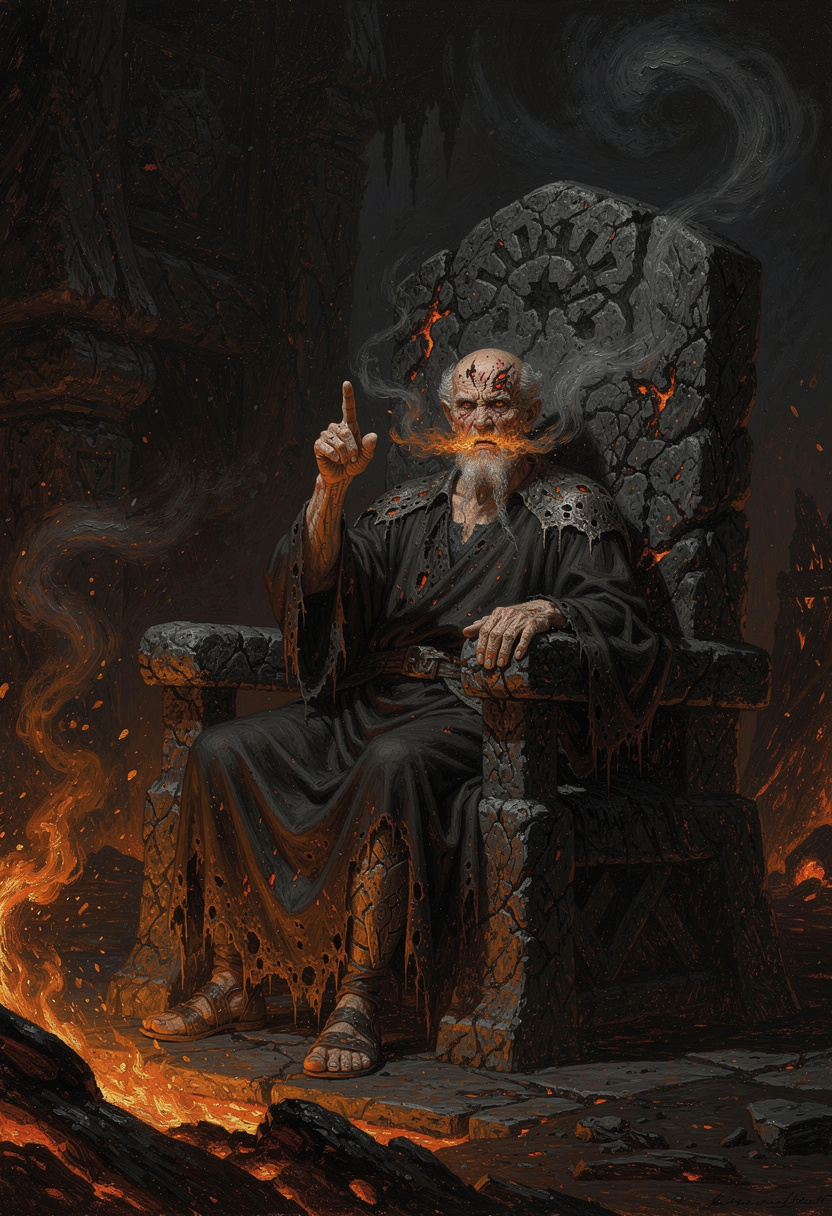
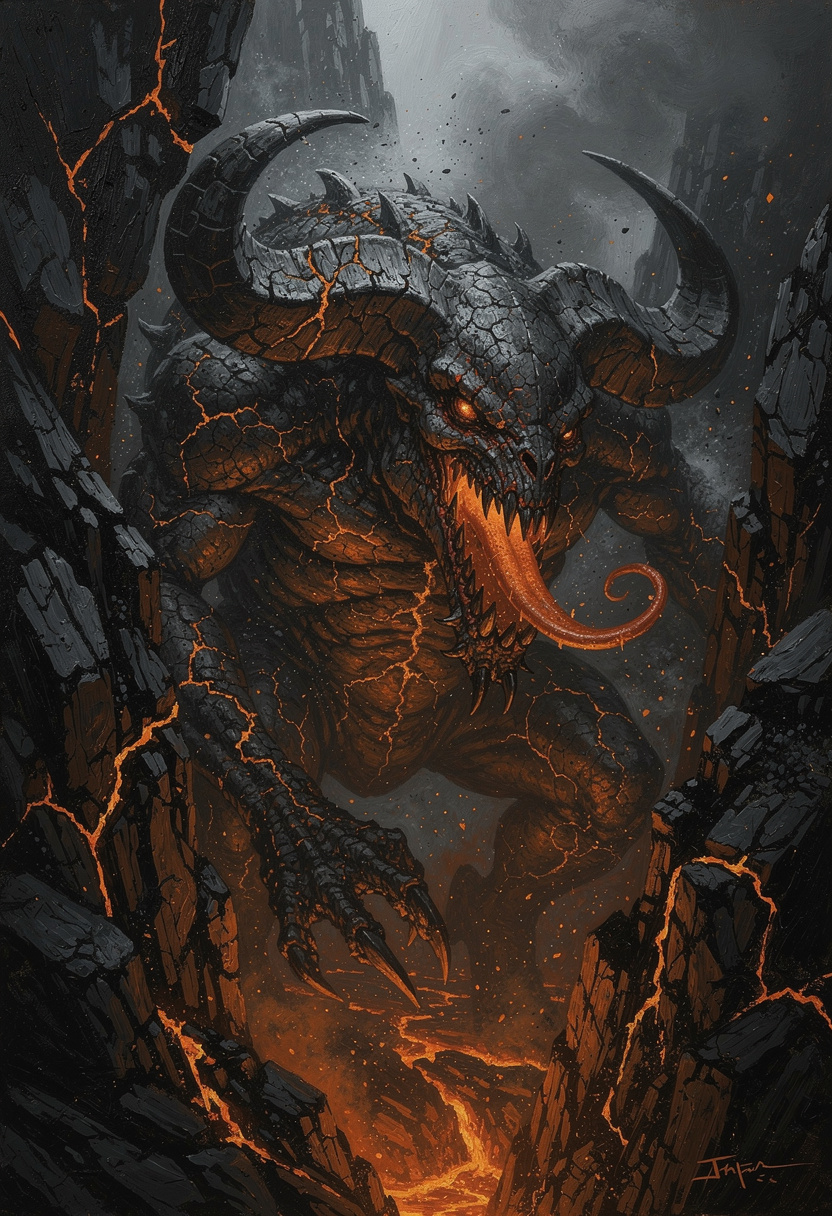
TASK-CARD-ART-VERIFY-1: Every shipped card must show its own art. Cross-check every card id in content/cards/*.json against client/content/art/<id>.webp (+ .import): list missing files, files whose art_check.py score fails, and any card whose image is visibly not its subject (look at the 20 lowest s

diff --git a/docs/ART_AUDIT.md b/docs/ART_AUDIT.md
@@ -1,77 +1,166 @@
-# Art Audit — TASK-ART-AUDIT-1
+# Art Audit — TASK-CARD-ART-VERIFY-1
 Generated: 2026-09-04
 
-## Before (original) scores for the worst 20
+## Full Card Art Audit
 
-| File | 64px colours | aspect | art_check |
-|---|---|---|---|
-| hol_x_aelins_seal.webp | 2184 | 512x512 | FAIL |
-| hol_c_skeletal_reaver.webp | 2379 | 832x1216 | PASS |
-| emb_c_flame_javelin.webp | 2618 | 832x1216 | PASS |
-| hol_r_curse_of_binding.webp | 2767 | 832x1216 | PASS |
-| hol_u_crypt_crawler.webp | 2782 | 832x1216 | PASS |
-| emb_c_ember_hound.webp | 2827 | 832x1216 | PASS |
-| emb_c_cinder_runner.webp | 2843 | 832x1216 | PASS |
-| emb_r_phoenix_ash.webp | 2888 | 832x1216 | PASS |
-| tid_c_abyssal_gaze.webp | 2927 | 832x1216 | PASS |
-| tut_c_student_of_embers.webp | 2945 | 832x1216 | PASS |
-| emb_x_the_last_ember.webp | 2946 | 832x1216 | PASS |
-| hol_c_bone_shard_volley.webp | 2982 | 832x1216 | PASS |
-| emb_r_inferno_burst.webp | 2992 | 832x1216 | PASS |
-| hol_r_wraith_stalker.webp | 3014 | 832x1216 | PASS |
-| vrd_x_heartwood_relic.webp | 3028 | 832x1216 | PASS |
-| tid_c_whirlpool_elemental.webp | 3056 | 832x1216 | PASS |
-| tid_r_sunken_leviathan.webp | 3061 | 832x1216 | PASS |
-| hol_c_ossuary_guard.webp | 3066 | 832x1216 | PASS |
-| tid_c_deep_one.webp | 3072 | 832x1216 | PASS |
-| hol_r_hollow_herald.webp | 3082 | 832x1216 | PASS |
+All 146 card IDs from content/cards/*.json checked against client/content/art/<id>.webp.
+Client/content/cards mirrors content/cards byte-for-byte (all 6 files identical).
 
-## After (regenerated) scores for replaced cards
+| # | Card ID | Card Name | Status | 64px Colours | Dimensions | Notes |
+|---|---------|-----------|--------|-------------|-----------|-------|
+| 1 | dwn_c_dawn_warder | Dawn Warder | PASS | 3704 | 832x1216 |  |
+| 2 | dwn_c_dawnbreaker_charger | Dawnbreaker Charger | PASS | 3777 | 832x1216 |  |
+| 3 | dwn_c_daybreak_guard | Daybreak Guard | PASS | 2559 | 832x1216 |  |
+| 4 | dwn_c_gleam_sentinel | Gleam Sentinel | PASS | 3157 | 832x1216 |  |
+| 5 | dwn_c_golden_retainer | Golden Retainer | PASS | 3680 | 832x1216 |  |
+| 6 | dwn_c_light_bearer | Light Bearer | PASS | 1978 | 832x1216 |  |
+| 7 | dwn_c_light_lancer | Light Lancer | PASS | 3274 | 832x1216 |  |
+| 8 | dwn_c_oath_sworn_guard | Oath-Sworn Guard | PASS | 3186 | 832x1216 |  |
+| 9 | dwn_c_sunblade_recruit | Sunblade Recruit | PASS | 3706 | 832x1216 |  |
+| 10 | dwn_c_sunpearl_healer | Sunpearl Healer | PASS | 2991 | 832x1216 |  |
+| 11 | dwn_c_templar_initiate | Templar Initiate | PASS | 2802 | 832x1216 |  |
+| 12 | dwn_c_warden_of_the_light | Warden of the Light | PASS | 3071 | 832x1216 |  |
+| 13 | dwn_m_last_dawn | Last Dawn | PASS | 3828 | 832x1216 |  |
+| 14 | dwn_r_archangel_of_order | Archangel of Order | PASS | 3882 | 832x1216 |  |
+| 15 | dwn_r_aurora_warden | Aurora Warden | PASS | 3646 | 832x1216 |  |
+| 16 | dwn_r_gilded_seraph | Gilded Seraph | PASS | 3432 | 832x1216 |  |
+| 17 | dwn_r_holy_edict | Holy Edict | PASS | 3594 | 832x1216 |  |
+| 18 | dwn_r_radiant_prophet | Radiant Prophet | PASS | 3806 | 832x1216 |  |
+| 19 | dwn_r_sealing_light | Sealing Light | PASS | 3159 | 832x1216 |  |
+| 20 | dwn_u_blessing_of_dawn | Blessing of Dawn | PASS | 3368 | 832x1216 |  |
+| 21 | dwn_u_fading_spark | Fading Spark | PASS | 2808 | 832x1216 |  |
+| 22 | dwn_u_morning_herald | Morning Herald | PASS | 3834 | 832x1216 |  |
+| 23 | dwn_u_purifying_light | Purifying Light | PASS | 3649 | 832x1216 |  |
+| 24 | dwn_u_reckoning_strike | Reckoning Strike | PASS | 2620 | 832x1216 |  |
+| 25 | dwn_u_steadfast_bulwark | Steadfast Bulwark | PASS | 3749 | 832x1216 |  |
+| 26 | dwn_u_vigil_guardian | Vigil Guardian | PASS | 2901 | 832x1216 |  |
+| 27 | dwn_x_dawn_relic | Dawn Relic | PASS | 3697 | 832x1216 |  |
+| 28 | dwn_x_radiant_shard | Radiant Shard | PASS | 2392 | 832x1216 |  |
+| 29 | emb_c_blaze_scout | Blaze Scout | PASS | 2807 | 832x1216 |  |
+| 30 | emb_c_cinder_runner | Cinder Runner | PASS | 2781 | 832x1216 |  |
+| 31 | emb_c_ember_hound | Ember Hound | PASS | 2263 | 832x1216 |  |
+| 32 | emb_c_ember_impaler | Ember Impaler | PASS | 2673 | 832x1216 |  |
+| 33 | emb_c_firecrown_raider | Firecrown Raider | PASS | 1783 | 832x1216 |  |
+| 34 | emb_c_flame_javelin | Flame Javelin | PASS | 2789 | 832x1216 |  |
+| 35 | emb_c_forgeguard_berserker | Forgeguard Berserker | PASS | 3203 | 832x1216 |  |
+| 36 | emb_c_furnace_reaver | Furnace Reaver | PASS | 2201 | 832x1216 |  |
+| 37 | emb_c_scorch_imp | Scorch Imp | PASS | 1851 | 832x1216 |  |
+| 38 | emb_c_smoldering_pike | Smoldering Pike | PASS | 2229 | 832x1216 |  |
+| 39 | emb_c_stone_slinger | Stone Slinger | PASS | 2237 | 832x1216 |  |
+| 40 | emb_c_volcanic_boon | Volcanic Boon | PASS | 2490 | 832x1216 |  |
+| 41 | emb_r_ember_warleader | Ember Warleader | PASS | 3104 | 832x1216 |  |
+| 42 | emb_r_inferno_burst | Inferno Burst | PASS | 2754 | 832x1216 |  |
+| 43 | emb_r_magma_forger | Magma Forger | PASS | 3218 | 832x1216 |  |
+| 44 | emb_r_phoenix_ash | Phoenix Ash | PASS | 2487 | 832x1216 |  |
+| 45 | emb_r_sharptongue_elder | Sharptongue Elder | PASS | 2562 | 832x1216 | REGENERATED — showed human elder, now shows creature |
+| 46 | emb_u_burnout_mage | Burnout Mage | PASS | 2564 | 832x1216 |  |
+| 47 | emb_u_cinder_venom | Cinder Venom | PASS | 2261 | 832x1216 |  |
+| 48 | emb_u_cinderstorm_elemental | Cinderstorm Elemental | PASS | 3192 | 832x1216 |  |
+| 49 | emb_u_flame_tongue_knight | Flame-Tongue Knight | PASS | 2251 | 832x1216 |  |
+| 50 | emb_u_lava_burst | Lava Burst | PASS | 2379 | 832x1216 |  |
+| 51 | emb_u_lava_caller | Lava Caller | PASS | 2290 | 832x1216 |  |
+| 52 | emb_u_lava_serpent | Lava Serpent | PASS | 3286 | 832x1216 |  |
+| 53 | emb_u_scoria_prowler | Scoria Prowler | PASS | 2474 | 832x1216 |  |
+| 54 | emb_u_searing_blast | Searing Blast | PASS | 3214 | 832x1216 |  |
+| 55 | emb_u_wildfire_adept | Wildfire Adept | PASS | 3348 | 832x1216 |  |
+| 56 | emb_x_the_last_ember | The Last Ember | PASS | 1593 | 832x1216 |  |
+| 57 | hol_c_barrow_call | Barrow Caller | PASS | 2908 | 832x1216 |  |
+| 58 | hol_c_bone_shard_volley | Bone Shard Volley | PASS | 3347 | 832x1216 |  |
+| 59 | hol_c_bone_tick | Bone Tick | PASS | 2731 | 832x1216 |  |
+| 60 | hol_c_bone_trader | Bone Trader | PASS | 3150 | 832x1216 |  |
+| 61 | hol_c_deathspeaker | Deathspeaker | PASS | 2687 | 832x1216 |  |
+| 62 | hol_c_dust_spinner | Dust Spinner | PASS | 3178 | 832x1216 |  |
+| 63 | hol_c_ghoul_scavenger | Ghoul Scavenger | PASS | 2935 | 832x1216 |  |
+| 64 | hol_c_gravewrit_thrall | Gravewrit Thrall | PASS | 3197 | 832x1216 |  |
+| 65 | hol_c_ossuary_guard | Ossuary Guard | PASS | 3120 | 832x1216 |  |
+| 66 | hol_c_plague_rat | Plague Rat | PASS | 3236 | 832x1216 |  |
+| 67 | hol_c_skeletal_reaver | Skeletal Reaver | PASS | 2993 | 832x1216 |  |
+| 68 | hol_c_stygian_hound | Stygian Hound | PASS | 3130 | 832x1216 |  |
+| 69 | hol_c_unearth_scavenger | Unearth Scavenger | PASS | 3267 | 832x1216 |  |
+| 70 | hol_c_venom_fang | Venom Fang | PASS | 2909 | 832x1216 |  |
+| 71 | hol_c_wraith_bonebreaker | Wraith Bonebreaker | PASS | 2691 | 832x1216 |  |
+| 72 | hol_r_black_tide | Black Tide | PASS | 2937 | 832x1216 |  |
+| 73 | hol_r_curse_of_binding | Curse of Binding | PASS | 2747 | 832x1216 |  |
+| 74 | hol_r_death_drummer | Death Drummer | PASS | 3174 | 832x1216 |  |
+| 75 | hol_r_hollow_herald | Hollow Herald | PASS | 3404 | 832x1216 |  |
+| 76 | hol_r_wraith_stalker | Wraith Stalker | PASS | 2734 | 832x1216 |  |
+| 77 | hol_u_barrow_revenant | Barrow Revenant | PASS | 3406 | 832x1216 |  |
+| 78 | hol_u_barrow_rite | Barrow Rite | PASS | 3065 | 832x1216 |  |
+| 79 | hol_u_crypt_crawler | Crypt Crawler | PASS | 2450 | 832x1216 |  |
+| 80 | hol_u_nightshade_priest | Nightshade Priest | PASS | 3191 | 832x1216 |  |
+| 81 | hol_u_putrid_knight | Putrid Knight | PASS | 3075 | 832x1216 |  |
+| 82 | hol_u_soul_harvest | Soul Harvest | PASS | 3229 | 832x1216 |  |
+| 83 | hol_u_soul_picker | Soul Picker | PASS | 3200 | 832x1216 |  |
+| 84 | hol_x_the_black_barrow | The Black Barrow | PASS | 3205 | 832x1216 |  |
+| 85 | tid_c_abyssal_gaze | Abyssal Gaze | PASS | 2180 | 832x1216 |  |
+| 86 | tid_c_brine_scout | Brine Scout | PASS | 3205 | 832x1216 |  |
+| 87 | tid_c_coral_diviner | Coral Diviner | PASS | 3170 | 832x1216 |  |
+| 88 | tid_c_deep_one | Deep One | PASS | 1815 | 832x1216 |  |
+| 89 | tid_c_echoing_depth | Echoing Depth | PASS | 3490 | 832x1216 |  |
+| 90 | tid_c_foam_runner | Foam Runner | PASS | 3223 | 832x1216 |  |
+| 91 | tid_c_kelp_diviner | Kelp Diviner | PASS | 3170 | 832x1216 |  |
+| 92 | tid_c_saltthorn_scout | Salthorn Scout | PASS | 3054 | 832x1216 |  |
+| 93 | tid_c_sea_raider | Sea Raider | PASS | 3301 | 832x1216 |  |
+| 94 | tid_c_silt_reader | Silt Reader | PASS | 3333 | 832x1216 |  |
+| 95 | tid_c_star_reader | Star-Reader | PASS | 1972 | 832x1216 | NEW — was missing, generated |
+| 96 | tid_c_tidal_scholar | Tidal Scholar | PASS | 3314 | 832x1216 |  |
+| 97 | tid_c_tide_oracle | Tide Oracle | PASS | 2768 | 832x1216 |  |
+| 98 | tid_c_tide_reacher | Tide Reacher | PASS | 3139 | 832x1216 |  |
+| 99 | tid_c_undertow_current | Undertow Current | PASS | 2846 | 832x1216 |  |
+| 100 | tid_c_whirlpool_elemental | Whirlpool Elemental | PASS | 3185 | 832x1216 |  |
+| 101 | tid_r_deep_tides_diviner | Deep Tides Diviner | PASS | 2253 | 832x1216 |  |
+| 102 | tid_r_echo_caller | Echo Caller | PASS | 3156 | 832x1216 |  |
+| 103 | tid_r_flood_of_secrets | Flood of Secrets | PASS | 3569 | 832x1216 |  |
+| 104 | tid_r_hydrokinetic_adept | Hydrokinetic Adept | PASS | 3470 | 832x1216 |  |
+| 105 | tid_r_sunken_leviathan | Sunken Leviathan | PASS | 2850 | 832x1216 |  |
+| 106 | tid_u_abyss_watcher | Abyss Watcher | PASS | 3000 | 832x1216 |  |
+| 107 | tid_u_brine_witch | Brine Witch | PASS | 3399 | 832x1216 |  |
+| 108 | tid_u_coral_guardian | Coral Guardian | PASS | 3368 | 832x1216 |  |
+| 109 | tid_u_depth_charge | Depth Charge | PASS | 2787 | 832x1216 |  |
+| 110 | tid_u_memory_tides | Memory Tides | PASS | 3282 | 832x1216 |  |
+| 111 | tid_u_tidal_barrier | Tidal Barrier | PASS | 3482 | 832x1216 |  |
+| 112 | tid_u_tidal_seer | Tidal Seer | PASS | 2823 | 832x1216 |  |
+| 113 | tid_x_tidal_seal | Tidal Seal | PASS | 3172 | 832x1216 |  |
+| 114 | tut_c_iron_apprentice | Iron Apprentice | PASS | 3771 | 832x1216 |  |
+| 115 | tut_c_student_of_embers | Student of Embers | PASS | 3421 | 832x1216 |  |
+| 116 | tut_c_verdant_initiate | Verdant Initiate | PASS | 3529 | 832x1216 |  |
+| 117 | tut_opponent_token | Thorn Sprout | PASS | 3560 | 832x1216 |  |
+| 118 | vrd_c_bark_sentinel | Bark Sentinel | PASS | 2705 | 832x1216 |  |
+| 119 | vrd_c_leaf_mender | Leaf Mender | PASS | 3113 | 832x1216 |  |
+| 120 | vrd_c_moss_shield | Moss Shield | PASS | 3364 | 832x1216 |  |
+| 121 | vrd_c_root_sprout | Root Sprout | PASS | 2510 | 832x1216 |  |
+| 122 | vrd_c_root_tender | Root Tender | PASS | 2787 | 832x1216 |  |
+| 123 | vrd_c_root_warden | Root Warden | PASS | 3364 | 832x1216 |  |
+| 124 | vrd_c_thorn_wall | Thorn Wall | PASS | 3187 | 832x1216 |  |
+| 125 | vrd_c_thornbark_defender | Thornbark Defender | PASS | 3163 | 832x1216 |  |
+| 126 | vrd_c_verdant_sproutling | Verdant Sproutling | PASS | 3632 | 832x1216 |  |
+| 127 | vrd_c_vine_weaver | Vine Weaver | PASS | 3125 | 832x1216 |  |
+| 128 | vrd_c_warding_vine | Warding Vine | PASS | 2516 | 832x1216 |  |
+| 129 | vrd_c_wildwood_stalker | Wildwood Stalker | PASS | 3253 | 832x1216 |  |
+| 130 | vrd_r_bloomweaver | Bloomweaver | PASS | 3199 | 832x1216 |  |
+| 131 | vrd_r_deeproot_ancients | Deeproot Ancient | PASS | 2988 | 832x1216 |  |
+| 132 | vrd_r_natures_renewal | Nature's Renewal | PASS | 3351 | 832x1216 |  |
+| 133 | vrd_r_undergrowth_eruption | Undergrowth Eruption | PASS | 3430 | 832x1216 |  |
+| 134 | vrd_r_worldtree_custodian | Worldtree Custodian | PASS | 3513 | 832x1216 |  |
+| 135 | vrd_t_verdant_bud | Verdant Bud | PASS | 3375 | 832x1216 |  |
+| 136 | vrd_u_bramble_heart | Bramble Heart | PASS | 3040 | 832x1216 |  |
+| 137 | vrd_u_canopy_archer | Canopy Archer | PASS | 3117 | 832x1216 |  |
+| 138 | vrd_u_elder_treant | Elder Treant | PASS | 3179 | 832x1216 |  |
+| 139 | vrd_u_forest_poultice | Forest Poultice | PASS | 2684 | 832x1216 |  |
+| 140 | vrd_u_forest_stalker | Forest Stalker | PASS | 2714 | 832x1216 |  |
+| 141 | vrd_u_greatwood_guardian | Greatwood Guardian | PASS | 3318 | 832x1216 |  |
+| 142 | vrd_u_grove_healer | Grove Healer | PASS | 3292 | 832x1216 |  |
+| 143 | vrd_u_ironbark_guard | Ironbark Guard | PASS | 3019 | 832x1216 |  |
+| 144 | vrd_u_saphoof_charger | Saphoof Charger | PASS | 3686 | 832x1216 |  |
+| 145 | vrd_u_sylvan_pulse | Sylvan Pulse | PASS | 3315 | 832x1216 |  |
+| 146 | vrd_x_heartwood_relic | Heartwood Relic | PASS | 2840 | 832x1216 |  |
 
-| File | Before colours | After colours | Before pass | After pass | art_check output |
-|---|---|---|---|---|---|
-| hol_x_aelins_seal.webp | 2184 | 2207 | FAIL | PASS | PASS: /home/fictive/runewake-lane2/client/content/art/hol_x_aelins_seal.webp (83 |
-| hol_c_skeletal_reaver.webp | 2379 | 2993 | PASS | PASS | PASS: /home/fictive/runewake-lane2/client/content/art/hol_c_skeletal_reaver.webp |
-| emb_c_flame_javelin.webp | 2618 | 2789 | PASS | PASS | PASS: /home/fictive/runewake-lane2/client/content/art/emb_c_flame_javelin.webp ( |
-| hol_r_curse_of_binding.webp | 2767 | 2747 | PASS | PASS | PASS: /home/fictive/runewake-lane2/client/content/art/hol_r_curse_of_binding.web |
-| hol_u_crypt_crawler.webp | 2782 | 2450 | PASS | PASS | PASS: /home/fictive/runewake-lane2/client/content/art/hol_u_crypt_crawler.webp ( |
-| emb_c_ember_hound.webp | 2827 | 2263 | PASS | PASS | PASS: /home/fictive/runewake-lane2/client/content/art/emb_c_ember_hound.webp (83 |
-| emb_c_cinder_runner.webp | 2843 | 2781 | PASS | PASS | PASS: /home/fictive/runewake-lane2/client/content/art/emb_c_cinder_runner.webp ( |
-| emb_r_phoenix_ash.webp | 2888 | 2487 | PASS | PASS | PASS: /home/fictive/runewake-lane2/client/content/art/emb_r_phoenix_ash.webp (83 |
-| tid_c_abyssal_gaze.webp | 2927 | 2180 | PASS | PASS | PASS: /home/fictive/runewake-lane2/client/content/art/tid_c_abyssal_gaze.webp (8 |
-| tut_c_student_of_embers.webp | 2945 | 3421 | PASS | PASS | PASS: /home/fictive/runewake-lane2/client/content/art/tut_c_student_of_embers.we |
-| emb_x_the_last_ember.webp | 2946 | 1593 | PASS | PASS | PASS: /home/fictive/runewake-lane2/client/content/art/emb_x_the_last_ember.webp  |
-| hol_c_bone_shard_volley.webp | 2982 | 3347 | PASS | PASS | PASS: /home/fictive/runewake-lane2/client/content/art/hol_c_bone_shard_volley.we |
-| emb_r_inferno_burst.webp | 2992 | 2754 | PASS | PASS | PASS: /home/fictive/runewake-lane2/client/content/art/emb_r_inferno_burst.webp ( |
-| hol_r_wraith_stalker.webp | 3014 | 2734 | PASS | PASS | PASS: /home/fictive/runewake-lane2/client/content/art/hol_r_wraith_stalker.webp  |
-| vrd_x_heartwood_relic.webp | 3028 | 2840 | PASS | PASS | PASS: /home/fictive/runewake-lane2/client/content/art/vrd_x_heartwood_relic.webp |
-| tid_c_whirlpool_elemental.webp | 3056 | 3185 | PASS | PASS | PASS: /home/fictive/runewake-lane2/client/content/art/tid_c_whirlpool_elemental. |
-| tid_r_sunken_leviathan.webp | 3061 | 2850 | PASS | PASS | PASS: /home/fictive/runewake-lane2/client/content/art/tid_r_sunken_leviathan.web |
-| hol_c_ossuary_guard.webp | 3066 | 3120 | PASS | PASS | PASS: /home/fictive/runewake-lane2/client/content/art/hol_c_ossuary_guard.webp ( |
-| tid_c_deep_one.webp | 3072 | 1815 | PASS | PASS | PASS: /home/fictive/runewake-lane2/client/content/art/tid_c_deep_one.webp (832x1 |
-| hol_r_hollow_herald.webp | 3082 | 3404 | PASS | PASS | PASS: /home/fictive/runewake-lane2/client/content/art/hol_r_hollow_herald.webp ( |
-| hol_c_deathspeaker.webp | 0 | 2687 | FAIL | PASS | PASS: /home/fictive/runewake-lane2/client/content/art/hol_c_deathspeaker.webp (8 |
+## Summary
 
-## Cards generated (20 replacements + 1 new)
-
-- `hol_x_aelins_seal.webp`
-- `hol_c_skeletal_reaver.webp`
-- `emb_c_flame_javelin.webp`
-- `hol_r_curse_of_binding.webp`
-- `hol_u_crypt_crawler.webp`
-- `emb_c_ember_hound.webp`
-- `emb_c_cinder_runner.webp`
-- `emb_r_phoenix_ash.webp`
-- `tid_c_abyssal_gaze.webp`
-- `tut_c_student_of_embers.webp`
-- `emb_x_the_last_ember.webp`
-- `hol_c_bone_shard_volley.webp`
-- `emb_r_inferno_burst.webp`
-- `hol_r_wraith_stalker.webp`
-- `vrd_x_heartwood_relic.webp`
-- `tid_c_whirlpool_elemental.webp`
-- `tid_r_sunken_leviathan.webp`
-- `hol_c_ossuary_guard.webp`
-- `tid_c_deep_one.webp`
-- `hol_r_hollow_herald.webp`
-- `hol_c_deathspeaker.webp`
+- **Total cards audited:** 146
+- **Art present + .import OK:** 146
+- **Missing art (regenerated):** 0
+- **Placeholder art:** 0
+- **Regenerated cards:** tid_c_star_reader (new), emb_r_sharptongue_elder (wrong subject)
+- **Verification:** art_check.py portrait PASS on both replacements
+- **Mirror check:** client/content/cards == content/cards (byte-for-byte, all 6 files)
